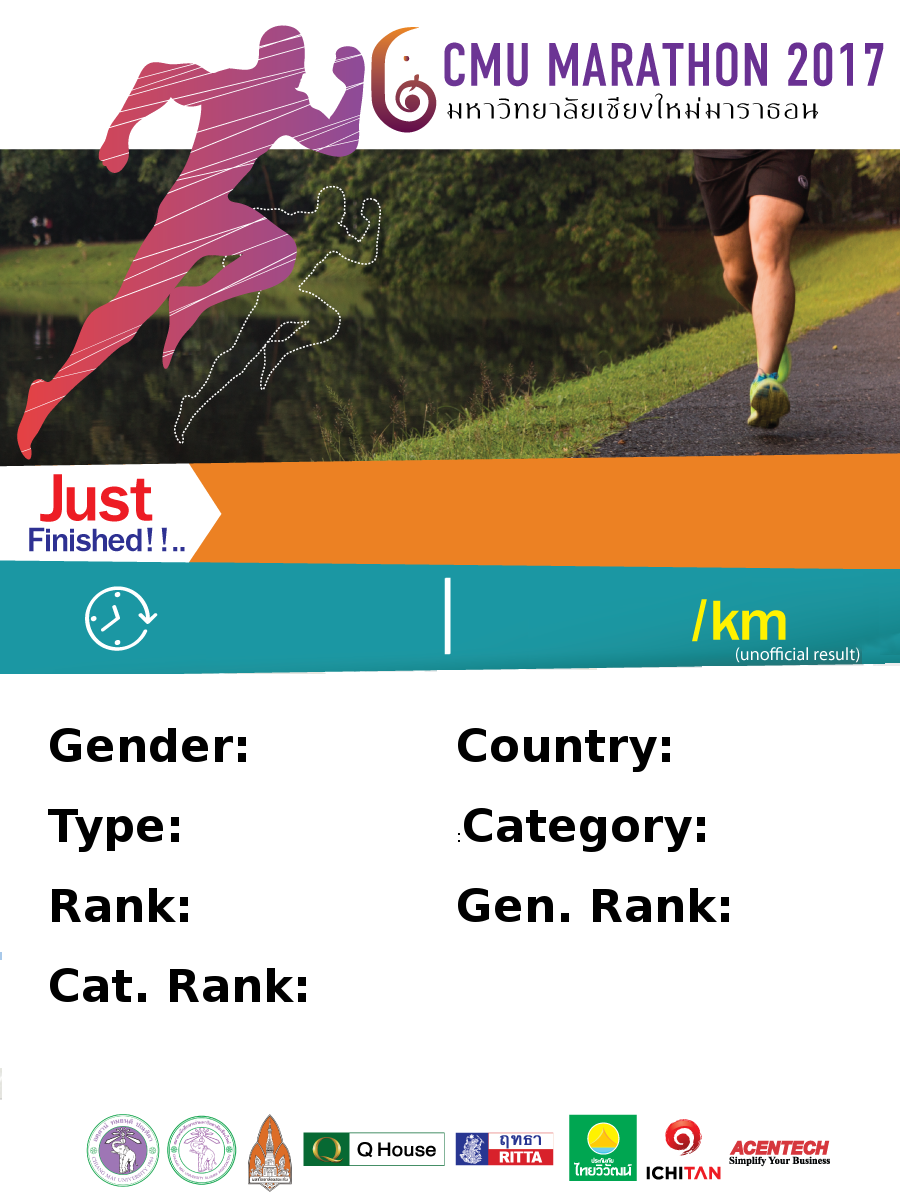
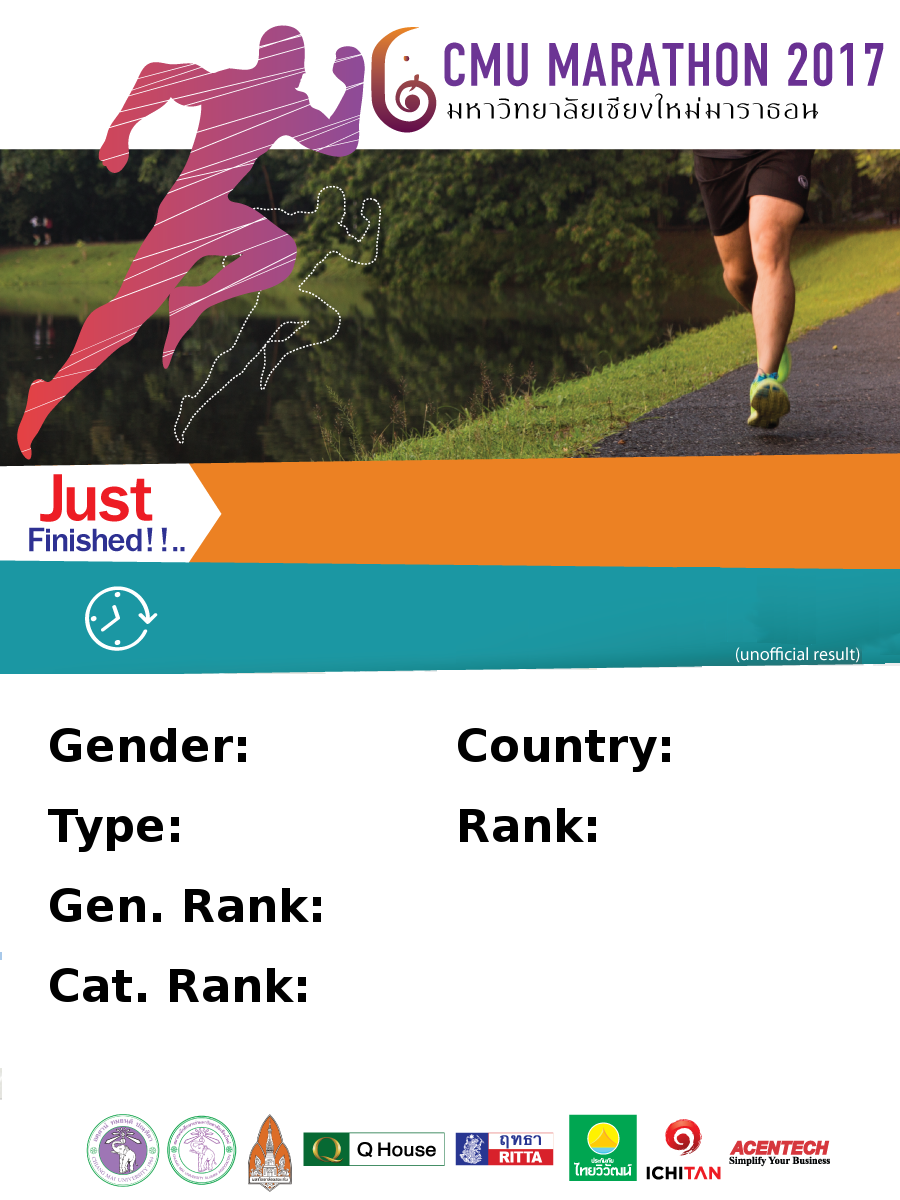
add all info, query from marathon.eng

diff --git a/genpngfb.php b/genpngfb.php
@@ -9,14 +9,26 @@ $font = './niramit.ttf';
 
 if(isset($bib)) {
   $json = file_get_contents('https://marathon.eng.cmu.ac.th/AllResult/getRunnerInfo/?id=' . $bib);
-  $runnerinfo = json_decode($json);
-  print_r($runnerinfo);
-  return;
+  $ri = json_decode($json);
+  $gender = ($ri['Sex']==1)?"Male":"Female";
+  $country = $ri['Nation'];
+  $type = $ri['Type'];
+  $rank = $ri['PlaceAll'];
+  $genrank = $ri['place_by_gender'];
+  $catrank = $ri['PlaceCat'];
+  $name = $ri['Name'];
+  $time = $ri['FinishTime'];
   $im = imagecreatefrompng($base_image);
   $white = imagecolorallocate($im, 0xFF, 0xFF, 0xFF);
+  $black = imagecolorallocate($im, 0x00, 0x00, 0x00);
   imagefttext($im, 60, 0, 290, 530, $white, $font, $name);
   imagefttext($im, 60, 0, 190, 640, $white, $font, $time);
-  imagefttext($im, 60, 0, 550, 640, $white, $font, $pace);
+  imagefttext($im, 55, 0, 260, 720, $black, $font, $gender);
+  imagefttext($im, 55, 0, 680, 720, $black, $font, $contry);
+  imagefttext($im, 55, 0, 190, 800, $black, $font, $type);
+  imagefttext($im, 55, 0, 715, 800, $black, $font, $rank);
+  imagefttext($im, 55, 0, 330, 880, $black, $font, $genrank);
+  imagefttext($im, 55, 0, 715, 960, $black, $font, $catrank);
   header('Content-Type: image/png');
   imagepng($im);
   imagedestroy($im);
